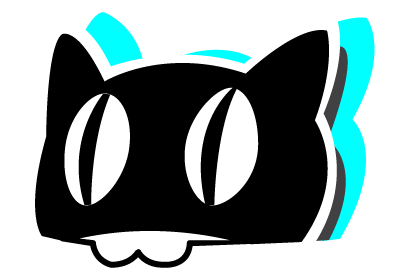
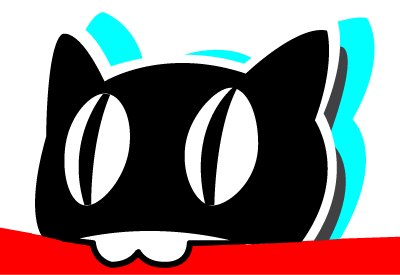
Styled audio posts

Changed region(s): [[0.0, 0.8145, 1.0, 1.0], [0.81, 0.6691, 0.84, 0.8145], [0.81, 0.4945, 0.84, 0.5236]]

diff --git a/index.html b/index.html
@@ -1,4 +1,39 @@
 <!DOCTYPE html>
+<!--
+                  .--------------------------------...
+               ,'-------------------------------,'   |
+              /                                /     |
+             /________________________________/    ,'|
+             |               ..               |  ,'  |
+             |___________-==/88\==-___________|,' /) |.
+             |  \    \     ((  ))     /    /  |  (/  |-. .
+             |   \    \     \{}/     /    /   |    .' .  .
+          . '|    \    \     )(     / _  /    |    ,   .  .
+         . . |\    \    \    \/    _.( ~-.   /|\ ,' .   . .
+       ` .  -`_-.--.______..._____( ,/  ` \~-.|,' .   .
+        .  `    .     .       .  ,'\. ~-  . , .  .  .   .
+           .  `   .     ,   .      , ~~-.' .  .    .
+      Morgana: Joker, look. A treasure chest!
+      Ryuji: Let's open it!
+      Joker: Hm?
+      Ann: What's wrong?
+      Ryuji: Is that a note?
+      Ann: A note? What does it say?
+      Morgana: It says,
+        "It seems like you found my treasure chest! I know it's a treasure chest and all but,
+          do you really have to steal it? I worked really hard on the contents (the code below) 
+          and it'll be bad if you were to just steal it. I mean, you might be thieves and all but,
+          do you really have to? I'd appreciate it if you didn't steal this... Oh! How about this?
+          You can look at the contents but not take anything! But then again, I'll never know unless
+          I catch you guys. Ahaha."
+      Ryuji: What the heck!?
+      Ann: Hmmm. I do feel a bit bad if we were to just steal this with this note and all.
+      Morgana: I agree. What do you think we should do, Joker?
+      Joker: (Choose an option)
+        [ Steal the treasure chest ]
+        [ Look at the contents ]
+        [ Leave it alone ]
+-->
 <html>
 <head>
   <title>tumblr Theme #1 - What is Material Design?</title>
@@ -282,6 +317,7 @@
             <span class="fa fa-exclamation-triangle"></span> <u><b>DISCLAIMER:</b></u> The images and designs that are created and used for this Persona 5 Tumblr theme are solely for entertainment purposes only. No profit is made from this Tumblr blog and theme. The owner of this blog is in no way, shape, or form associated with Atlus. This blog theme is purely fan-made.
           </div></p>
           <p><span class="fa fa-star"></span> <b>Fire Emblem: Awakening pixels:</b> <a href="http://tacticiantwins-blog.tumblr.com/post/60677237887/1st-gen-pixels" target="new">here</a></p>
+          <p><span class="fa fa-star"></span> <b>ASCII Art (if you can find the treasure chest):</b> <a href="http://ascii.co.uk/art/coffin" target="new">here</a></p>
           <p>
             <span class="fa fa-photo"></span> <b>Images:</b>  <br/>
             <p class="egg"><span class="fa fa-long-arrow-right"></span> Header from <i>Persona 5</i> official artwork</p>
@@ -645,13 +681,13 @@
         	<div class="content-post-inner">
 	          <div class="audio-post">
               <div class="album-info">
-                <h6 class="audio-title">FINAL FANTASY X: ZANARKAND</h6>
-                <p class="audio-artist">NOBUO UEMATSU</p>
-                <p class="audio-album">A NEW WORLD: INTIMATE MUSIC FROM FINAL FANTASY</p>
+                <p class="audio-title">FINAL FANTASY X: ZANARKAND</p>
+                <p class="audio-artist">Nobuo Uematsu</p>
+                <p class="audio-album">A New World: Intimate Music From Final Fantasy</p>
               </div>
               <div class="album-art">
-                <img src="imgs/morgana.png">
-                <div class="album-img"><img src="http://static.tumblr.com/p0knose/7A1nhv7rk/default-cover.png"></div>
+                <img class="nya" src="imgs/morgana-01.png">
+                <img class="album-img" src="http://static.tumblr.com/p0knose/7A1nhv7rk/default-cover.png">
               </div>
             </div>
             <span><a href="#">a-persons-url-here</a>:</span>

diff --git a/css/global.css b/css/global.css
@@ -647,7 +647,7 @@ form {
 
 .content-post {
   width: 100%;
-  padding: 120px 20px;
+  padding: 110px 20px;
   position: relative; }
   @media screen and (max-width: 1024px) {
     .content-post {
@@ -704,22 +704,51 @@ form {
   .content-post .audio-post {
     display: flex; }
     .content-post .audio-post .album-art {
-      margin-left: 10px; }
-      .content-post .audio-post .album-art img {
+      margin-left: 10px;
+      display: flex;
+      justify-content: center;
+      flex-direction: column; }
+      .content-post .audio-post .album-art .nya {
         width: 100%;
-        max-width: 100px; }
+        max-width: 130px; }
+        @media screen and (max-width: 460px) {
+          .content-post .audio-post .album-art .nya {
+            max-width: 160px; } }
       .content-post .audio-post .album-art .album-img {
-        background: #ff0000;
+        position: absolute;
         width: 100%;
-        max-width: 82px;
-        padding: 5px;
-        margin: -8px auto; }
+        max-width: 80px;
+        left: 505px;
+        top: 190px; }
+        @media screen and (max-width: 1024px) {
+          .content-post .audio-post .album-art .album-img {
+            left: 462px;
+            top: 180px; } }
+        @media screen and (max-width: 460px) {
+          .content-post .audio-post .album-art .album-img {
+            left: calc(100% - 110px);
+            top: calc(100% - 260px); } }
     .content-post .audio-post .album-info {
-      width: 100%;
-      background: #fff;
-      border: 5px solid #000;
+      background: rgba(0, 0, 0, 0.9);
+      color: #fff;
+      display: flex;
+      flex-direction: column;
+      border: 5px solid #ff0000;
       text-align: right;
+      width: 100%;
       padding: 10px; }
+      .content-post .audio-post .album-info .audio-title {
+        font-family: "Londrina Solid", cursive;
+        font-size: 1.3em; }
+      .content-post .audio-post .album-info .audio-artist {
+        color: #00FFFF; }
+      .content-post .audio-post .album-info .audio-album {
+        color: #fe6cec; }
+      .content-post .audio-post .album-info p {
+        margin: 12px 0; }
+        @media screen and (max-width: 460px) {
+          .content-post .audio-post .album-info p {
+            margin: 8px 0; } }
   .content-post .ask-post {
     position: relative; }
     @media screen and (max-width: 680px) {

diff --git a/sass/global.scss b/sass/global.scss
@@ -867,7 +867,7 @@ form {
 
 .content-post {
   width: 100%;
-  padding: 120px 20px;
+  padding: 110px 20px;
   position: relative;
   @include desktop {
     padding: 100px 10px;
@@ -935,24 +935,57 @@ form {
     display: flex;
     .album-art {
       margin-left: 10px;
-      img {
+      display: flex;
+      justify-content: center;
+      flex-direction: column;
+      .nya {
         width: 100%;
-        max-width: 100px;
+        max-width: 130px;
+        @include mobile {
+          max-width: 160px;
+        }
       }
       .album-img {
-        background: $primary;
+        position: absolute;
         width: 100%;
-        max-width: 82px;
-        padding: 5px;
-        margin: -8px auto;
+        max-width: 80px;
+        left: 505px;
+        top: 190px;
+        @include desktop {
+          left: 462px;
+          top: 180px;
+        }
+        @include mobile {
+          left: calc(100% - 110px);
+          top: calc(100% - 260px);
+        }
       }
     }
     .album-info {
-      width: 100%;
-      background: $text;
-      border: 5px solid $secondary;
+      background: rgba(0,0,0,0.9);
+      color: $text;
+      display: flex;
+      flex-direction: column;
+      border: 5px solid $primary;
       text-align: right;
+      width: 100%;
       padding: 10px;
+      .audio-title {
+        font-family: $headings;
+        font-size: 1.3em;
+      }
+      .audio-artist {
+        color: $accent1;
+      }
+      .audio-album {
+        color: $accent4;
+      }
+      p {
+        margin: 12px 0;
+        @include mobile {
+          margin: 8px 0;
+        }
+      }
     }
   }
   .ask-post {
